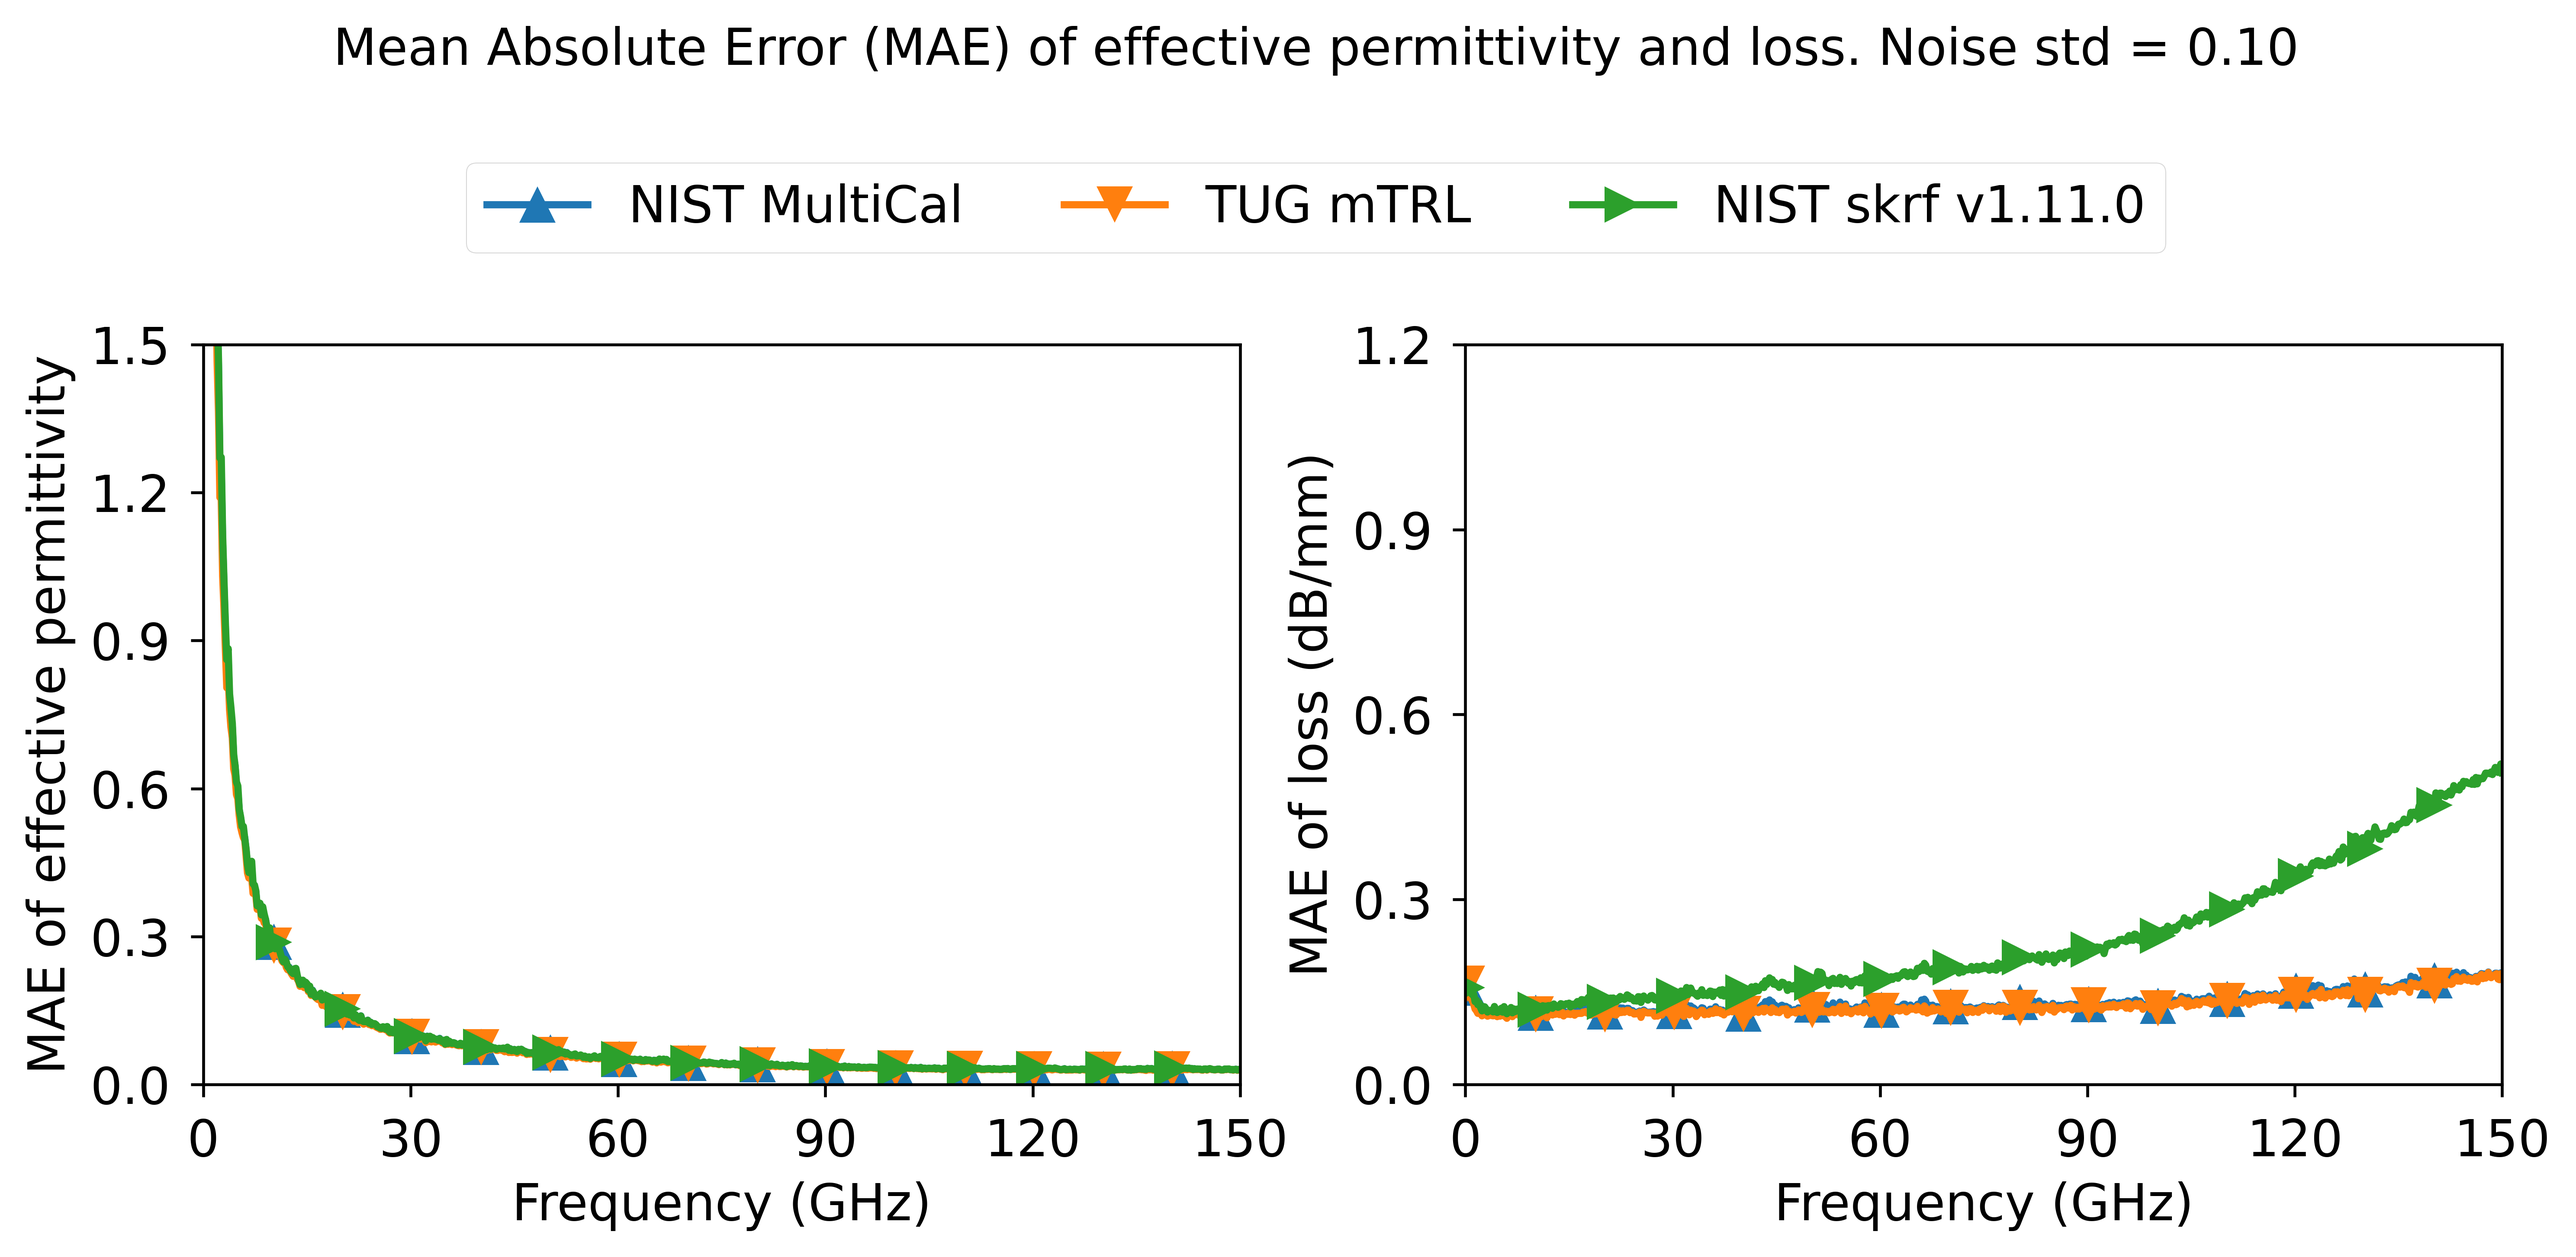
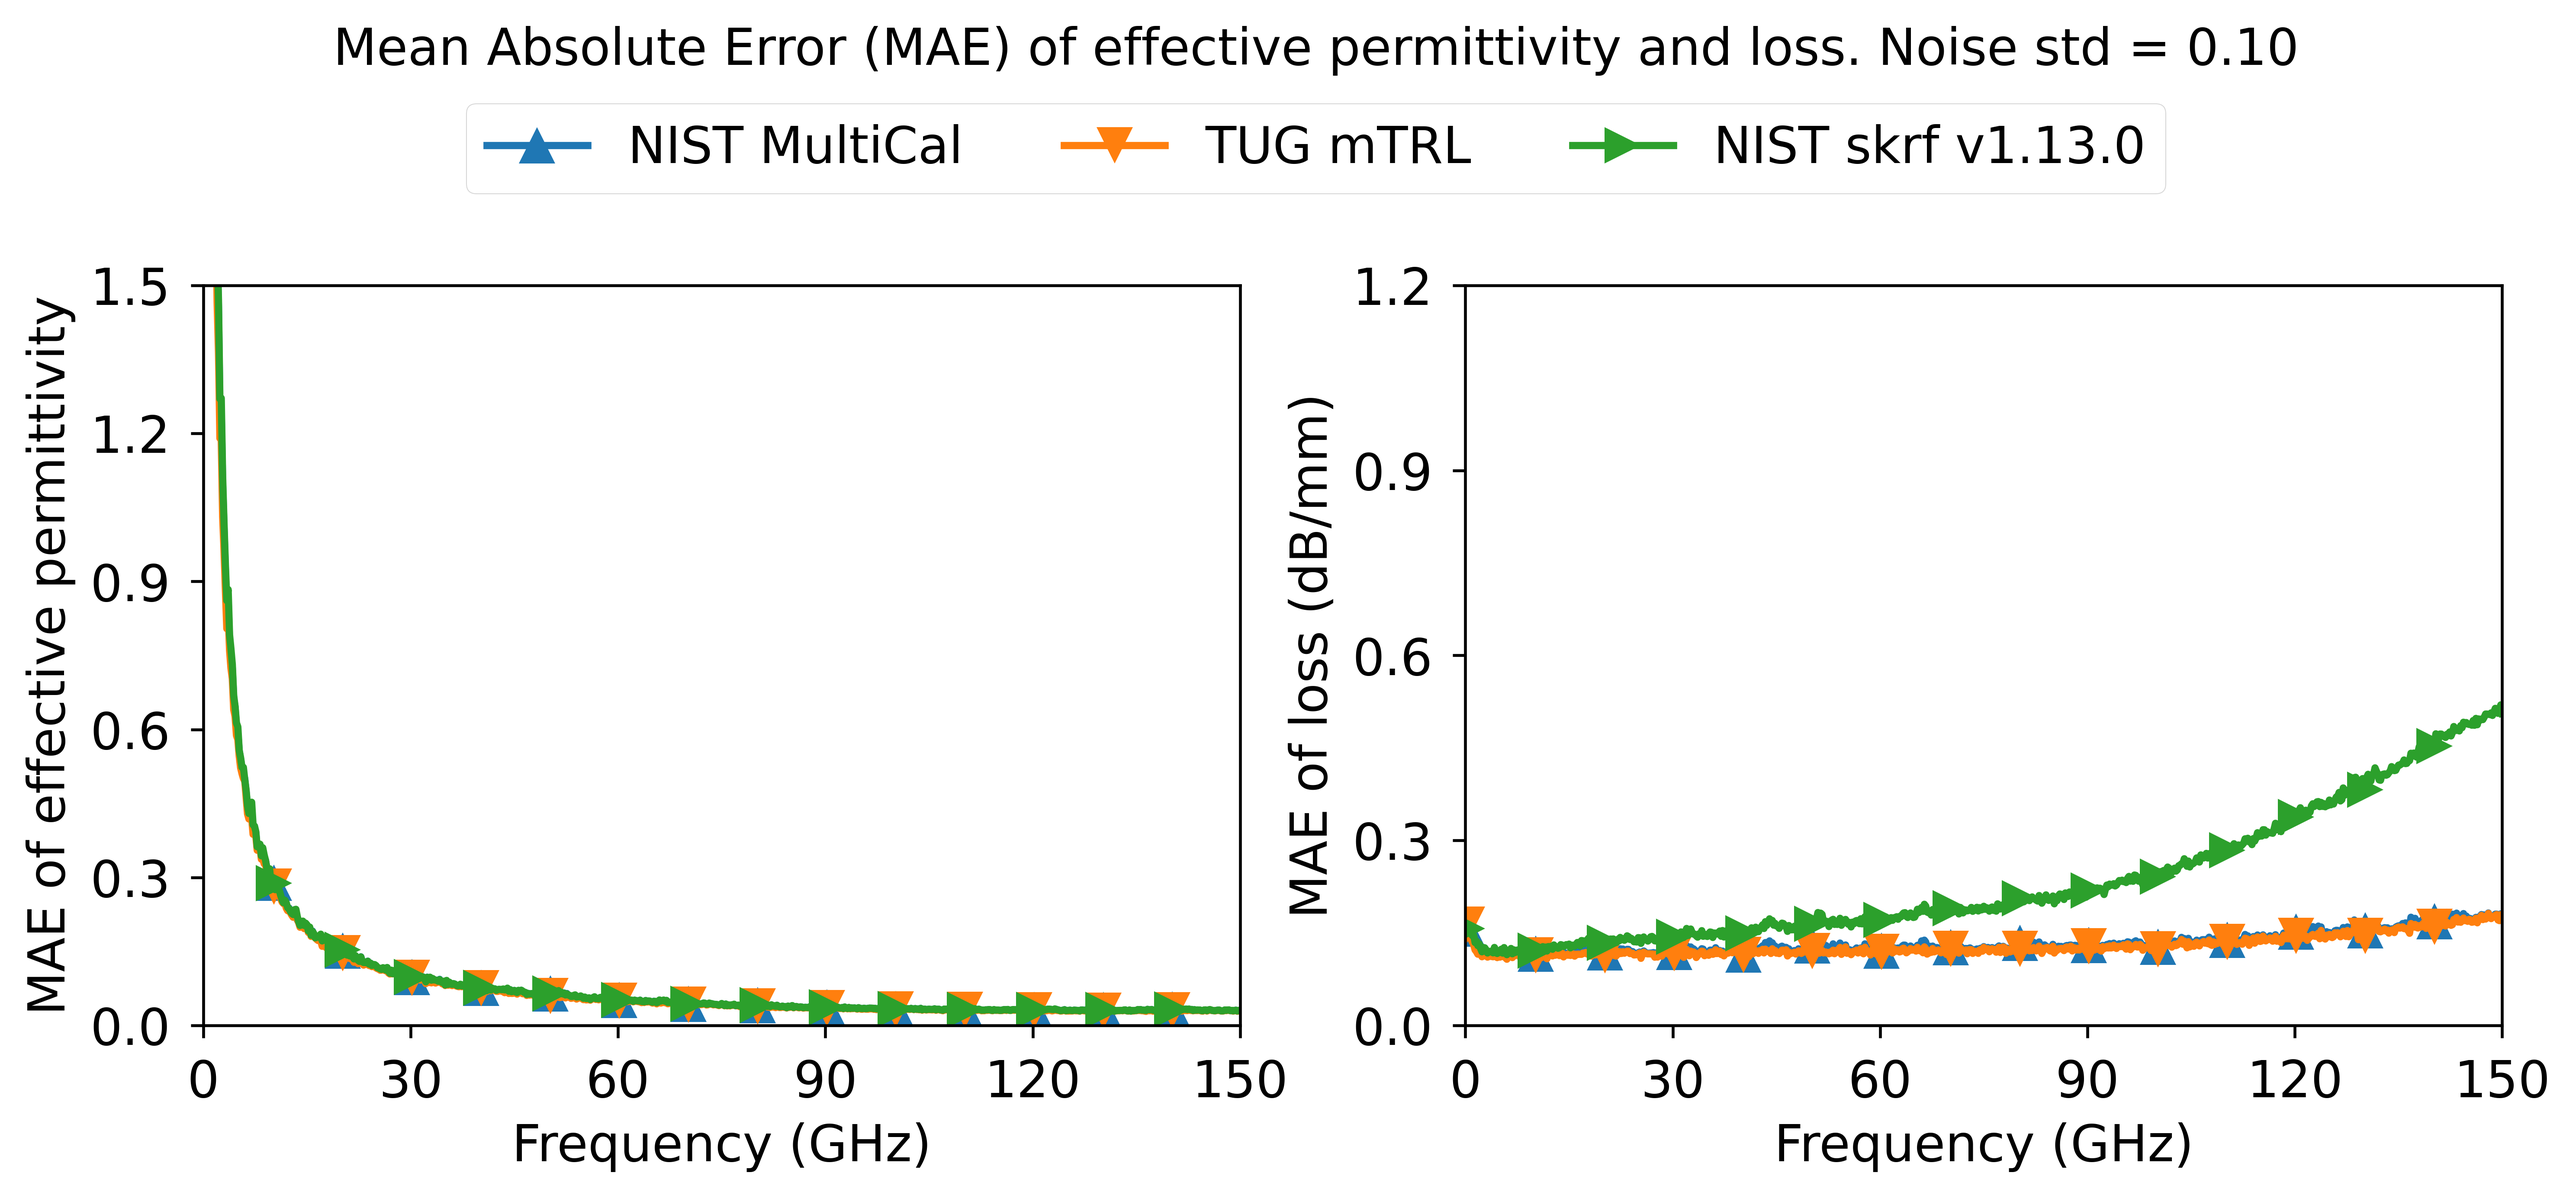
clean up code regarding sorting eigenvalues

diff --git a/TUGmTRL.py b/TUGmTRL.py
@@ -126,10 +126,11 @@ def solve_quadratic(v1, v2, inx, x_est):
     mininx = np.argmin( abs(x - x_est).sum(axis=1) )
     return x[mininx]
 
-def project_lambda(gamma, lengths, W):
-    # projection of z=exp(-gamma*l) and y=1/z onto W (this is how lambda is defined)
+def compute_lambd(gamma, lengths):
     z = np.exp(-gamma*lengths)
-    return (1/z).dot(W).dot(z)
+    y = 1/z
+    W = (np.outer(y,z) - np.outer(z,y)).conj()
+    return abs(W.conj()*W).sum()/2
 
 def mTRL(Slines, lengths, Sreflect, gamma_est, reflect_est, reflect_offset,
          compensate_repeated_lines, lnorm):
@@ -168,7 +169,8 @@ def mTRL(Slines, lengths, Sreflect, gamma_est, reflect_est, reflect_offset,
     z = eigvec[:,np.argmax(abs(eigval))]
 
     ## pick the sign of W and invert z if needed.
-    lambd_est = project_lambda(gamma_est, lengths, W)
+    z_est = np.exp(-gamma_est*lengths)
+    lambd_est = (1/z_est).dot(W).dot(z_est)
     if abs(lambd_est - lambd) > abs(lambd_est + lambd):
         W = -W
         z = 1/z  # invert z (i.e. swap z and y) if the sign of W is flipped
@@ -182,7 +184,7 @@ def mTRL(Slines, lengths, Sreflect, gamma_est, reflect_est, reflect_offset,
     # S2: change L-norm weighting of the eigenvalue problem (e.g., L1, L2, etc.)
     S2 = abs(W)**(lnorm-1)
     S  = S1*S2 # combined scaling to account for both repeated lines and norm-weighting
-    WS  = W*S  # new weighting matrix scaled by S.
+    WS = W*S  # new weighting matrix scaled by S.
     
     # new scaled eigenvalue and normalized eigenvalue after scaling the weighting matrix by S.
     lambd_S = 0.5*abs(WS.conj()*W).sum()
@@ -191,12 +193,10 @@ def mTRL(Slines, lengths, Sreflect, gamma_est, reflect_est, reflect_offset,
     ## weighted eigenvalue problem
     F = M@WS@Dinv@M.T@P@Q
     eigval, eigvec = np.linalg.eig(F)
-    inx = np.argsort(abs(eigval))
-    v2, v3, v1, v4 = eigvec[:, inx].T  # v2,v3 span the null space; v1,v4 the range space
-    # eigenvalue from the eigenvalue problem should match the one from Takagi decomposition.
-    lambd_eigval = (eigval[inx[3]] - eigval[inx[2]])/2
-    if abs(lambd_eigval - lambd_S) > abs(lambd_eigval + lambd_S):
-        v1, v4 = v4, v1  # swap if assumed order is wrong.
+    # sort the eigenvectors. F has eigenvalues [-lambda, 0, 0, +lambda] -> v1, v2, v3, v4
+    inx_sort = np.argsort(eigval.real)
+    v1, v2, v3, v4 = eigvec[:, inx_sort].T  # v2,v3 span the null space; v1,v4 the range space
+    
     # build estimates for x1_, x2_, x3_, and x4 from the eigenvectors 
     # these are used as initial estimates for solving the quadratic equations below
     x1__est = v1/v1[0]
@@ -227,7 +227,7 @@ def mTRL(Slines, lengths, Sreflect, gamma_est, reflect_est, reflect_offset,
     # recovers S21 = exp(-gamma*length) and factor k^2*a11*b11 from rank-1 recovery from all lines.
     # k^2*a11*b11 not used, as transmission normalization is enforced by the thru measurement.
     Slines_cal = np.array([LFTinv(E_, s) for s in Slines])
-    R = np.vstack(( Slines_cal[:, 1, 0], Slines_cal[:, 0, 1]))
+    R = np.vstack((Slines_cal[:, 1, 0], Slines_cal[:, 0, 1]))
     u,_,vh = np.linalg.svd(R)  # rank-1 recovery
     s21 = vh[0,:]/vh[0,0]  # this is exp(-gamma*length) (normalized to the thru)
     # k2a11b11 = u[1,0]/u[0,0]   # k^2*a11*b11
@@ -239,8 +239,7 @@ def mTRL(Slines, lengths, Sreflect, gamma_est, reflect_est, reflect_offset,
     # gamma2 from de-embedding the lines: this is the final propagation constant returned to the user.
     gamma2 = compute_gamma(s21, lengths, gamma_est)
     # hand over the most accurate gamma to the next point: overwrite gamma1 with gamma2
-    # only if gamma2's projected lambda is closer to the Takagi lambda.
-    if abs(project_lambda(gamma2, lengths, W) - lambd) < abs(project_lambda(gamma1, lengths, W) - lambd):
+    if abs(compute_lambd(gamma2, lengths) - lambd) < abs(compute_lambd(gamma1, lengths) - lambd):
         gamma1 = gamma2
 
     ## solve for a11b11 and K from Thru measurement. 

diff --git a/example_3.py b/example_3.py
@@ -159,8 +159,8 @@ if __name__ == '__main__':
     gamma_ideal = cal.gamma
 
     # Monte Carlo Analysis
-    M = 1000            # number of trials
-    sigma_noise = 0.2 # noise standard deviation
+    M = 100            # number of trials
+    sigma_noise = 0.2  # noise standard deviation
     print(f'\n\nWith noise... ({M} trials, scikit-rf {rf.__version__})')
 
     # the trials are independent, so run them in parallel across all CPU cores.
@@ -339,7 +339,7 @@ if __name__ == '__main__':
         fig.legend(handles, labels, bbox_to_anchor=(0.5, 1.0),
                    loc='lower center', ncol=3, borderaxespad=0
                    )
-        plt.suptitle(f"Mean Absolute Error (MAE) of effective permittivity and loss. Noise std = {sigma_noise:.2f}", verticalalignment='bottom').set_y(1.18)
+        plt.suptitle(f"Mean Absolute Error (MAE) of effective permittivity and loss. Noise std = {sigma_noise:.2f}", verticalalignment='bottom').set_y(1.12)
         #fig.savefig(fig_dir + f'example_3_ereff_loss_{suffix}.png', dpi=600, bbox_inches='tight')
 
     plt.show()
